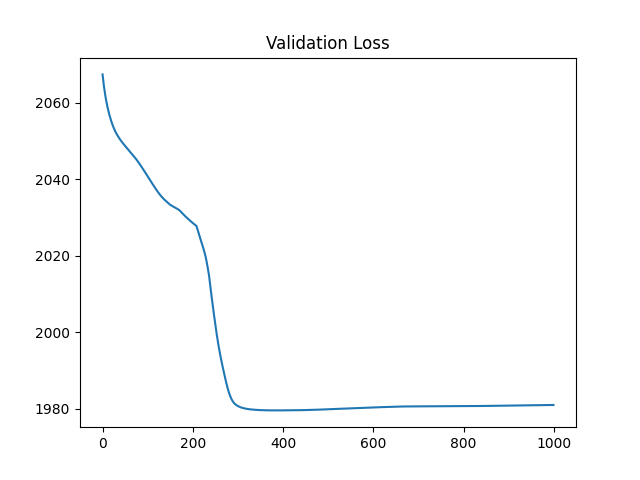
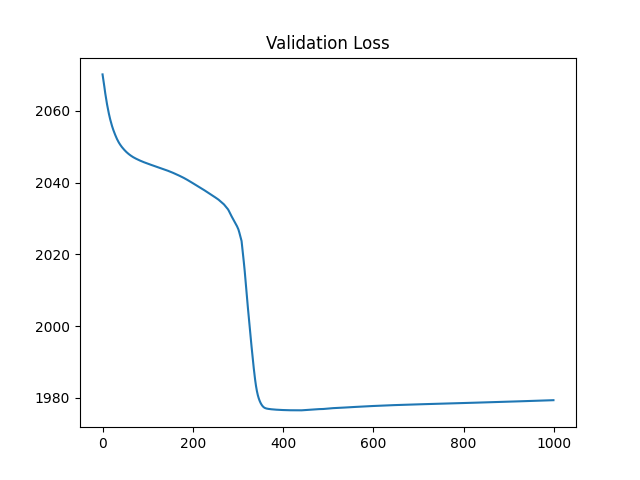
Added different optimizers. Each trainable layer has its own copy of optimizer. net.add_optimizer has to pass class of optimizer instead of object.

diff --git a/examples/classification/binary_softmax_classification/binary_softmax_classification.py b/examples/classification/binary_softmax_classification/binary_softmax_classification.py
@@ -1,9 +1,6 @@
-import numpy as np
-import pandas as pd
 import matplotlib.pyplot as plt
-from fawad_torch.nn import CrossEntropyLoss
+from fawad_torch.nn import Linear, ReLU, Softmax, CrossEntropyLoss
 import fawad_torch.optimizers as optim
-from fawad_torch.nn import Linear, ReLU, Softmax
 from fawad_utils.datasets import load_breast_cancer_data
 from fawad_utils.utils import indices_to_one_hot
 from sklearn.model_selection import train_test_split
@@ -11,13 +8,14 @@ from sklearn.model_selection import train_test_split
 class ClassificationNetwork:
     def __init__(self):
         self._layers = []
-        self._optimizer = None
 
     def add_layer(self, node):
         self._layers.append(node)
 
     def add_optimizer(self, optimizer):
-        self._optimizer = optimizer
+        for layer in self._layers:
+            if layer.is_trainable():
+                layer.add_optimizer(optimizer(learning_rate=1e-4))
 
     def forward(self, x, train=True):
         for layer in self._layers:
@@ -27,10 +25,6 @@ class ClassificationNetwork:
     def backward(self, error_tensor):
         for layer in self._layers[::-1]:
             error_tensor = layer.backward(error_tensor)
-            if layer.is_trainable():
-                if self._optimizer is None:
-                    print("Must add optimizer using add_optimizer function")
-                layer.w = self._optimizer.step(layer.w, layer.grad_weights)
         return error_tensor
     
 x, y = load_breast_cancer_data(normalize=True)
@@ -42,7 +36,7 @@ net.add_layer(Linear(in_features=x_train.shape[1], out_features=64, name='Linear
 net.add_layer(ReLU(name='Relu 1'))
 net.add_layer(Linear(in_features=64, out_features=y_train.shape[1], name='Linear 2'))
 net.add_layer(Softmax(name='Softmax 1'))
-net.add_optimizer(optim.SGD(learning_rate=1e-3))
+net.add_optimizer(optim.SGDMomentum)
 
 loss_fn = CrossEntropyLoss()
 val_loss_fn = CrossEntropyLoss()

diff --git a/examples/classification/iris_classification/iris_classification.py b/examples/classification/iris_classification/iris_classification.py
@@ -1,22 +1,20 @@
-import numpy as np
-import pandas as pd
 import matplotlib.pyplot as plt
-from fawad_torch.nn import CrossEntropyLoss
+from fawad_torch.nn import Linear, ReLU, Softmax, CrossEntropyLoss
 import fawad_torch.optimizers as optim
-from fawad_torch.nn import Linear, ReLU, Softmax
 from fawad_utils.datasets import load_iris_data
 from sklearn.model_selection import train_test_split
 
 class ClassificationNetwork:
     def __init__(self):
         self._layers = []
-        self._optimizer = None
 
     def add_layer(self, node):
         self._layers.append(node)
 
     def add_optimizer(self, optimizer):
-        self._optimizer = optimizer
+        for layer in self._layers:
+            if layer.is_trainable():
+                layer.add_optimizer(optimizer(learning_rate=1e-3))
 
     def forward(self, x, train=True):
         for layer in self._layers:
@@ -26,10 +24,6 @@ class ClassificationNetwork:
     def backward(self, error_tensor):
         for layer in self._layers[::-1]:
             error_tensor = layer.backward(error_tensor)
-            if layer.is_trainable():
-                if self._optimizer is None:
-                    print("Must add optimizer using add_optimizer function")
-                layer.w = self._optimizer.step(layer.w, layer.grad_weights)
         return error_tensor
 
 x, y = load_iris_data(normalize=True)
@@ -40,7 +34,7 @@ net.add_layer(Linear(in_features=x_train.shape[1], out_features=64, name='Linear
 net.add_layer(ReLU(name='Relu 1'))
 net.add_layer(Linear(in_features=64, out_features=y_train.shape[1], name='Linear 2'))
 net.add_layer(Softmax(name='Softmax 1'))
-net.add_optimizer(optim.SGD(learning_rate=1e-3))
+net.add_optimizer(optim.RMSprop)
 
 loss_fn = CrossEntropyLoss()
 val_loss_fn = CrossEntropyLoss()

diff --git a/examples/classification/mnist_classification/mnist_classification.py b/examples/classification/mnist_classification/mnist_classification.py
@@ -1,22 +1,20 @@
-import numpy as np
-import pandas as pd
 import matplotlib.pyplot as plt
-from fawad_torch.nn import CrossEntropyLoss
 import fawad_torch.optimizers as optim
-from fawad_torch.nn import Linear, ReLU, Softmax
+from fawad_torch.nn import Linear, ReLU, Softmax, CrossEntropyLoss
 from fawad_utils.datasets import load_mnist_data
 from sklearn.model_selection import train_test_split
 
 class ClassificationNetwork:
     def __init__(self):
         self._layers = []
-        self._optimizer = None
 
     def add_layer(self, node):
         self._layers.append(node)
 
     def add_optimizer(self, optimizer):
-        self._optimizer = optimizer
+        for layer in self._layers:
+            if layer.is_trainable():
+                layer.add_optimizer(optimizer(learning_rate=1e-3))
 
     def forward(self, x, train=True):
         for layer in self._layers:
@@ -26,10 +24,6 @@ class ClassificationNetwork:
     def backward(self, error_tensor):
         for layer in self._layers[::-1]:
             error_tensor = layer.backward(error_tensor)
-            if layer.is_trainable():
-                if self._optimizer is None:
-                    print("Must add optimizer using add_optimizer function")
-                layer.w = self._optimizer.step(layer.w, layer.grad_weights)
         return error_tensor
 
 x, y = load_mnist_data(normalize=True)
@@ -40,7 +34,7 @@ net.add_layer(Linear(in_features=x_train.shape[1], out_features=32, name='Linear
 net.add_layer(ReLU(name='Relu 1'))
 net.add_layer(Linear(in_features=32, out_features=y_train.shape[1], name='Linear 2'))
 net.add_layer(Softmax(name='Softmax 1'))
-net.add_optimizer(optim.SGD(learning_rate=1e-3))
+net.add_optimizer(optim.Adam)
 
 loss_fn = CrossEntropyLoss()
 val_loss_fn = CrossEntropyLoss()

diff --git a/examples/classification/binary_classification/binary_classification.py b/examples/classification/binary_classification/binary_classification.py
@@ -1,22 +1,20 @@
-import numpy as np
-import pandas as pd
 import matplotlib.pyplot as plt
-from fawad_torch.nn import CrossEntropyLoss
 import fawad_torch.optimizers as optim
-from fawad_torch.nn import Linear, Sigmoid, ReLU
+from fawad_torch.nn import Linear, ReLU, Sigmoid, CrossEntropyLoss
 from fawad_utils.datasets import load_breast_cancer_data
 from sklearn.model_selection import train_test_split
 
 class ClassificationNetwork:
     def __init__(self):
         self._layers = []
-        self._optimizer = None
 
     def add_layer(self, node):
         self._layers.append(node)
 
     def add_optimizer(self, optimizer):
-        self._optimizer = optimizer
+        for layer in self._layers:
+            if layer.is_trainable():
+                layer.add_optimizer(optimizer(learning_rate=1e-3))
 
     def forward(self, x, train=True):
         for layer in self._layers:
@@ -26,10 +24,6 @@ class ClassificationNetwork:
     def backward(self, error_tensor):
         for layer in self._layers[::-1]:
             error_tensor = layer.backward(error_tensor)
-            if layer.is_trainable():
-                if self._optimizer is None:
-                    print("Must add optimizer using add_optimizer function")
-                layer.w = self._optimizer.step(layer.w, layer.grad_weights)
         return error_tensor
 
 x, y = load_breast_cancer_data(normalize=True)
@@ -44,7 +38,7 @@ net.add_layer(ReLU())
 # net.add_layer(Sigmoid())
 net.add_layer(Linear(in_features=256, out_features=y_train.shape[1]))
 net.add_layer(Sigmoid())
-net.add_optimizer(optim.SGD(learning_rate=1e-3))
+net.add_optimizer(optim.SGD)
 loss_fn = CrossEntropyLoss(binary=True)
 val_loss_fn = CrossEntropyLoss(binary=True)
 

diff --git a/layers/linear.py b/layers/linear.py
@@ -1,9 +1,9 @@
+from layers.base import BaseLayer as _BaseLayer
 import numpy as np
-from layers.base import BaseLayer
 
-class Linear(BaseLayer):
-    def __init__(self, in_features, out_features, bias=True, trainable=True, name=None):
-        super().__init__(in_features, out_features, bias, trainable, name)
+class Linear(_BaseLayer):
+    def __init__(self, in_features, out_features, bias=True, trainable=True, optimizer=None, name=None):
+        super().__init__(in_features, out_features, bias, trainable, optimizer, name)
     
     def forward(self, x, train=True):
         if self.bias:
@@ -14,8 +14,13 @@ class Linear(BaseLayer):
         return out
 
     def backward(self, error_tensor):
-        self.grad_weights = np.dot(self._x.T, error_tensor)
         grad_input = np.dot(error_tensor, self.w.T)[:, 1:]
+        if self.is_trainable():
+            if self._optimizer is not None:
+                grad_weights = np.dot(self._x.T, error_tensor)
+                self.w = self._optimizer.step(self.w, grad_weights)
+            else:
+                raise Exception("Trainable Layer must have optimizer passed to it.")
         return grad_input
     
 if __name__ == '__main__':

diff --git a/optimizers/adam.py b/optimizers/adam.py
@@ -1,0 +1,20 @@
+from optimizers.base import BaseOptimizer as _BaseOptimizer
+import numpy as np
+
+class Adam(_BaseOptimizer):
+    def __init__(self, learning_rate, beta1=0.9, beta2=0.999):
+        super().__init__(learning_rate)
+        self.beta1 = beta1
+        self.beta2 = beta2
+        self.m = 0
+        self.v = 0
+        self.t = 0
+
+    def step(self, w, grad):
+        self.t += 1
+        self.m = self.beta1 * self.m + (1 - self.beta1) * grad
+        self.v = self.beta2 * self.v + (1 - self.beta2) * np.square(grad)
+        m_hat = self.m / (1 - self.beta1 ** self.t)
+        v_hat = self.v / (1 - self.beta2 ** self.t)
+        w = w - self.learning_rate * m_hat / (np.sqrt(v_hat) + 1e-8)
+        return w

diff --git a/layers/base.py b/layers/base.py
@@ -1,9 +1,10 @@
 import numpy as np
 
 class BaseLayer:
-    def __init__(self, in_features, out_features, bias=True, trainable=True, name=None):
+    def __init__(self, in_features, out_features, bias=True, trainable=True, optimizer=None, name=None):
         self._name = name
         self._trainable = trainable
+        self._optimizer = optimizer
         self.bias = bias
         if bias:
             in_features = in_features + 1
@@ -29,3 +30,6 @@ class BaseLayer:
     
     def set_name(self, name):
         self._name = name
+
+    def add_optimizer(self, optimizer):
+        self._optimizer = optimizer

diff --git a/optimizers/adagrad.py b/optimizers/adagrad.py
@@ -1,14 +1,12 @@
 from optimizers.base import BaseOptimizer as _BaseOptimizer
+import numpy as np
 
-class SGD(_BaseOptimizer):
-    """Stochastic Gradient Descent"""
+class Adagrad(_BaseOptimizer):
     def __init__(self, learning_rate):
         super().__init__(learning_rate)
+        self.cache = 0
 
     def step(self, w, grad):
-        w = w - self.learning_rate * grad
+        self.cache += np.square(grad)
+        w = w - self.learning_rate * grad / (np.sqrt(self.cache) + 1e-8)
         return w
-    
-if __name__ == '__main__':
-    x = SGD(42)
-    print(x.learning_rate)

diff --git a/optimizers/rmsprop.py b/optimizers/rmsprop.py
@@ -1,0 +1,13 @@
+from optimizers.base import BaseOptimizer as _BaseOptimizer
+import numpy as np
+
+class RMSprop(_BaseOptimizer):
+    def __init__(self, learning_rate, decay_rate=0.9):
+        super().__init__(learning_rate)
+        self.decay_rate = decay_rate
+        self.cache = 0
+
+    def step(self, w, grad):
+        self.cache = self.decay_rate * self.cache + (1 - self.decay_rate) * np.square(grad)
+        w = w - self.learning_rate * grad / (np.sqrt(self.cache) + 1e-8)
+        return w

diff --git a/optimizers/nag.py b/optimizers/nag.py
@@ -1,0 +1,13 @@
+from optimizers.base import BaseOptimizer as _BaseOptimizer
+
+class NAG(_BaseOptimizer):
+    """Nesterov Accelerated Gradient"""
+    def __init__(self, learning_rate, momentum=0.9):
+        super().__init__(learning_rate)
+        self.momentum = momentum
+        self.v = 0
+
+    def step(self, w, grad):
+        self.v = self.momentum * self.v - self.learning_rate * grad
+        w = w + self.momentum * self.momentum * (self.v - self.learning_rate * grad)
+        return w

diff --git a/optimizers/sgd_momentum.py b/optimizers/sgd_momentum.py
@@ -1,0 +1,13 @@
+from optimizers.base import BaseOptimizer as _BaseOptimizer
+
+class SGDMomentum(_BaseOptimizer):
+    """Stochastic Gradient Descent with Momentum"""
+    def __init__(self, learning_rate, momentum=0.9):
+        super().__init__(learning_rate)
+        self.momentum = momentum
+        self.v = 0
+
+    def step(self, w, grad):
+        self.v = self.momentum * self.v - self.learning_rate * grad
+        w = w + self.v
+        return w

diff --git a/examples/regression/housing_regression/housing_regression.py b/examples/regression/housing_regression/housing_regression.py
@@ -1,12 +1,9 @@
-import numpy as np
-import pandas as pd
 import matplotlib.pyplot as plt
 from losses.mse_loss import MSELoss
 import fawad_torch.optimizers as optim
 from fawad_torch.nn import Linear, ReLU
 from fawad_utils.datasets import load_california_housing
 from sklearn.model_selection import train_test_split
-import os
 
 class RegressionNetwork:
     def __init__(self):
